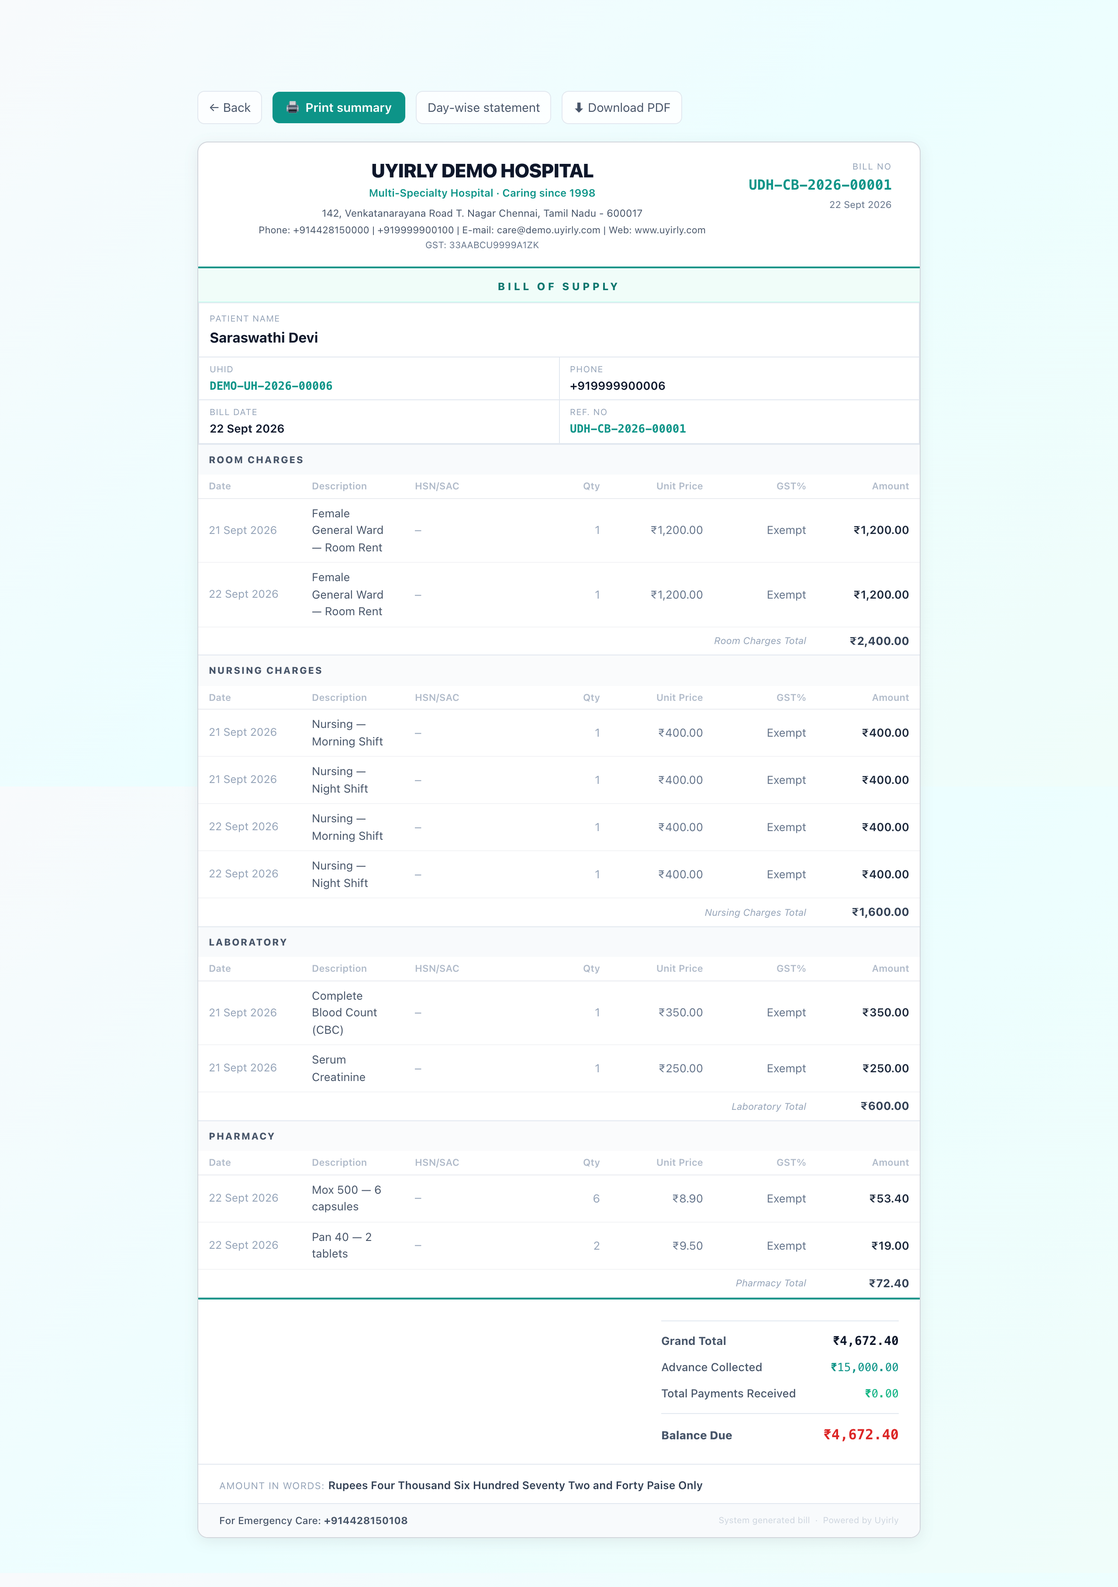
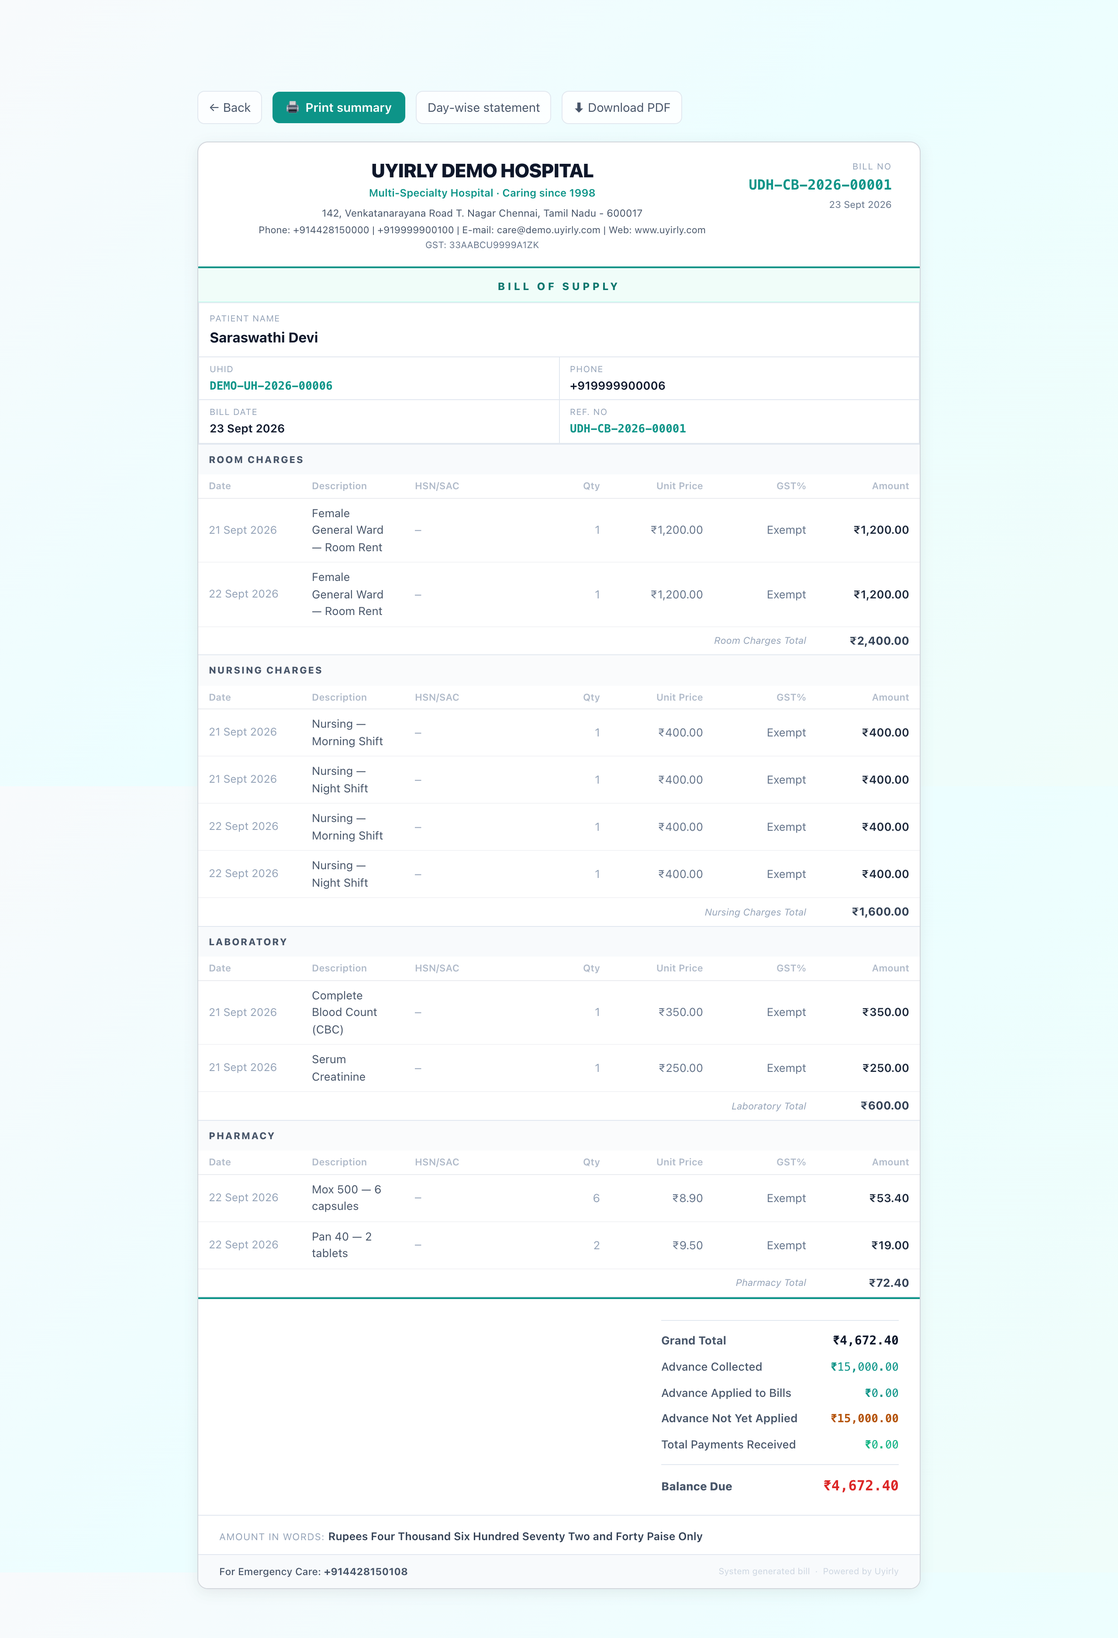
fix(billing): say what happened to the advance
The combined bill printed "Advance Collected ₹15,000" directly above "Balance
Due ₹4,672.40", with nothing in between to explain how both could be true. An
advance is held against the admission and only reduces a balance once a cashier
applies it to a bill — the amount applied was already computed as
advanceAdjusted and then never rendered.

The totals panel now states all three: collected, applied to bills, and not yet
applied. Same accounting, same numbers; the bill just stops contradicting
itself in front of the family paying it.

The IPD billing guide claimed the opposite — that an advance "is applied as
charges accumulate, so the balance shown is always what is genuinely
outstanding" — in a guide that shows the bill disproving it two paragraphs
above. Corrected, in the FAQ too.

Also: the free-trial guide now walks the real signup screen and the real setup
checklist, including why the starting departments matter more than they look
(they choose each doctor's clinical form); and the bill-format guide shows a
printed bill beside its samples.

diff --git a/src/content/guides/hospital-free-trial-setup-guide.tsx b/src/content/guides/hospital-free-trial-setup-guide.tsx
@@ -1,14 +1,20 @@
 import Link from 'next/link'
+import Screenshot from '@/components/guides/Screenshot'
 import WorkflowDiagram from '@/components/guides/diagrams/WorkflowDiagram'
+import CalloutBox from '@/components/guides/diagrams/CalloutBox'
 
 export const faqs = [
   {
     q: 'What do you need ready before starting a hospital software free trial?',
-    a: 'A basic department list, a handful of staff members with their roles (doctor, nurse, receptionist, etc.), and — if you want a realistic test — a short list of sample patients. None of this needs to be your real production data.',
+    a: 'Your hospital name, the departments you run, a handful of staff with their roles, and your basic rates — consultation fees, bed rates, common procedures. A few sample patients make the trial far more useful than clicking around an empty system. None of it needs to be your real production data.',
   },
   {
     q: 'How long does it take to get a hospital live on new software?',
-    a: 'Core setup — hospital profile, departments, staff accounts, basic pricing — can typically be done within a day. Going fully live across every department usually happens gradually over the following days to weeks as staff get comfortable with each module.',
+    a: 'The core — profile, departments, staff logins, rates — is a morning\'s work. Going fully live across every department happens over the following days as each one is switched on and the staff who use it get comfortable.',
+  },
+  {
+    q: 'What is a hospital code and why does it matter?',
+    a: 'A short prefix on every patient ID and bill number, like CITY-UH-2026-00005. It is worth setting before you register anyone, because it appears on every identifier the hospital issues from then on.',
   },
 ]
 
@@ -16,64 +22,128 @@ export default function Guide() {
   return (
     <>
       <p>
-        A free trial is only useful if you actually set it up the way your hospital will really run — not
-        just click through a demo. Here&apos;s what a realistic first day on a new hospital management system
-        looks like.
+        A trial is only worth anything if you set the system up the way your hospital actually runs. Clicking
+        through someone else&apos;s demo data tells you the software has screens. Registering your own
+        patient, prescribing from your own stock and printing your own bill tells you whether it fits.
+      </p>
+      <p>
+        This is what the first morning looks like.
       </p>
 
-      <h2>Day-one setup sequence</h2>
+      <h2>Signing up</h2>
+      <Screenshot
+        src="/guides/signup.png" width={1604} height={2190}
+        alt="Signup form asking for hospital name, a login address ending in uyirly.com, your name, mobile, email and password, then a grid of starting departments to switch on, ending in a create button and a 30-day free trial note"
+        caption="The one screen that decides two things worth thinking about for a minute."
+      />
+      <p>Two fields on this page are worth slowing down for.</p>
+      <ul>
+        <li>
+          <strong>The login address.</strong> This becomes your hospital&apos;s own web address, the one
+          every member of staff types every morning. Short is better than complete — your hospital&apos;s
+          name, not its full legal title.
+        </li>
+        <li>
+          <strong>The starting departments.</strong> These are not labels. The department a doctor belongs to
+          decides which clinical form opens for their consultations: choose Paediatrics and those doctors get
+          growth charts and immunisation schedules; choose Gynaecology and they get the antenatal record and
+          the labour ward. Getting this right at signup saves discovering, a month later, that your
+          paediatrician has been typing weights into a general notes box.
+        </li>
+      </ul>
+      <CalloutBox tone="info" title="You can change both later, but one is cheaper than the other">
+        Departments can be added or removed any time in Settings. The login address is the one that is
+        awkward to change once staff have it in their browsers and your printed material carries it.
+      </CalloutBox>
+
+      <h2>The setup checklist</h2>
+      <p>
+        Once you are in, a <strong>Getting started</strong> page tracks what is still outstanding. It is not
+        a tour — each item checks the database and ticks itself when the thing is actually there, and the
+        list only shows the steps that apply to the modules you turned on.
+      </p>
       <WorkflowDiagram
-        title="Getting a hospital live"
+        title="What the checklist asks for"
         steps={[
-          { label: 'Hospital profile', sublabel: 'Name, departments, wards' },
-          { label: 'Staff accounts', sublabel: 'Roles & permissions' },
-          { label: 'Pricing setup', sublabel: 'Consultation, bed, tariffs' },
-          { label: 'Test patients', sublabel: 'Run a real workflow' },
+          { label: 'Profile & code', sublabel: 'What prints on bills' },
+          { label: 'Your team', sublabel: 'Logins and roles' },
+          { label: 'Catalogues', sublabel: 'Tests, scans, medicines' },
+          { label: 'Rates & wards', sublabel: 'Before the first bill' },
+          { label: 'First patient', sublabel: 'The whole flow, once' },
         ]}
       />
-
-      <h2>What to have ready</h2>
-      <ul>
-        <li>A list of departments and wards, if you run inpatient care.</li>
-        <li>Staff names and their roles — doctor, nurse, receptionist, pharmacist, and so on.</li>
-        <li>Basic pricing — consultation fees, bed daily rates, common procedure charges.</li>
-        <li>A few sample patients to actually run through OPD registration, a consultation and a bill — this is worth far more than clicking through an empty demo.</li>
-      </ul>
-
-      <h2>Test with real staff, not just yourself</h2>
-      <p>
-        The most useful trial isn&apos;t an admin exploring the software alone — it&apos;s a receptionist registering
-        a walk-in, a nurse assigning herself to a patient, a doctor writing a prescription. Our{' '}
-        <Link href="/guides/hospital-management-software-india">buyer&apos;s checklist</Link> covers what else to
-        evaluate during a trial beyond whether setup was easy.
-      </p>
-
-      <h2>Ready to try it?</h2>
-      <p>
-        If you&apos;re moving off paper registers or spreadsheets rather than another software product, our{' '}
-        <Link href="/guides/switching-from-spreadsheets-to-hms">guide to switching from spreadsheets</Link>{' '}
-        covers a phased rollout that avoids disrupting patient care during the transition.
-      </p>
-      <h2>Starting your Uyirly free trial</h2>
-      <p>
-        <Link href="/hospital-management-software">Uyirly</Link> gives a 30-day free trial with no credit card,
-        and most hospitals are seeing patients the same day. When you{' '}
-        <Link href="/signup">sign up</Link>, your hospital gets its own private, secure workspace, and a
-        built-in setup guide walks you through the rest.
-      </p>
       <ol>
-        <li><strong>Sign up</strong> with your hospital name and mobile number &mdash; no card needed.</li>
-        <li><strong>Add your team</strong> so doctors, nurses and front desk can log in.</li>
-        <li><strong>Switch on your departments</strong> and add your services, medicines and billing rates.</li>
-        <li><strong>Register your first patient</strong> and watch the visit, prescription and bill flow together.</li>
-        <li><strong>Go live</strong> &mdash; add more modules whenever you are ready.</li>
+        <li>
+          <strong>Hospital profile</strong> — logo, address and contact details, because these are what
+          appear on every bill, prescription and report you print.
+        </li>
+        <li>
+          <strong>Hospital code</strong> — the short prefix on patient IDs and bill numbers. Set it before
+          you register anyone.
+        </li>
+        <li>
+          <strong>Your team</strong> — adding a person creates their login, and their role decides what they
+          can see. See{' '}
+          <Link href="/guides/hospital-staff-attendance-hr-guide">staff and attendance</Link>.
+        </li>
+        <li>
+          <strong>Doctor OPD hours</strong> — each doctor&apos;s weekly sessions, which the patient app books
+          against.
+        </li>
+        <li>
+          <strong>Lab and radiology catalogues</strong> — the tests and scans you offer, with sample types,
+          prices and reference ranges. Ranges are what make a result flag itself as abnormal later.
+        </li>
+        <li>
+          <strong>Pharmacy stock</strong> — your medicines and opening stock, so you can dispense and bill
+          rather than typing names in free text.
+        </li>
+        <li>
+          <strong>Wards and beds</strong> — if you admit patients.
+        </li>
+        <li>
+          <strong>Billing rates</strong> — consultation and procedure charges, before the first bill rather
+          than after it.
+        </li>
+        <li>
+          <strong>Your first patient</strong> — the point of the whole exercise.
+        </li>
       </ol>
+
+      <h2>The test that matters</h2>
+      <p>
+        Run <strong>one patient end to end</strong>, and have the people who will actually do each step do
+        it. Not the owner clicking through everything alone — a receptionist registering the walk-in, a nurse
+        recording vitals, the doctor prescribing, the pharmacy dispensing, the cashier taking the money.
+      </p>
+      <p>
+        What you are checking is not whether each screen works. It is whether the prescription reached the
+        pharmacy without being retyped, whether the consultation fee and the medicines landed on{' '}
+        <em>one</em> bill, and whether the nurse could record vitals without being able to write the
+        consultation. Those joins are where hospital software is actually decided, and they are invisible
+        until someone walks a patient through them.
+      </p>
+      <p>
+        Our <Link href="/guides/hospital-management-software-india">buyer&apos;s checklist</Link> covers what
+        else to evaluate during a trial.
+      </p>
+
+      <h2>Then go live gradually</h2>
+      <p>
+        Nobody should move a whole hospital in one night. Start with the department that hurts most —
+        usually OPD and the pharmacy — and add the rest as each one settles. If you are coming off paper
+        registers rather than another system, our{' '}
+        <Link href="/guides/switching-from-spreadsheets-to-hms">guide to switching from spreadsheets</Link>{' '}
+        covers a phased rollout that does not disrupt patient care, and the{' '}
+        <Link href="/guides/hospital-digitization-workflow-guide">digitisation workflow guide</Link> sets out
+        the order.
+      </p>
 
       <h2>Getting started</h2>
       <p>
-        You can <Link href="/signup">start your free trial</Link> now, or see how to move off registers in our{' '}
-        <Link href="/guides/switching-from-spreadsheets-to-hms">switching guide</Link>. After the trial it is
-        simple flat monthly pricing &mdash; see <Link href="/pricing">pricing</Link>.
+        <Link href="/signup">Start a 30-day free trial</Link> — no credit card, and your hospital gets its
+        own private workspace from the first minute. After the trial it is flat monthly pricing; see{' '}
+        <Link href="/pricing">pricing</Link>.
       </p>
     </>
   )

diff --git a/src/content/guides/hospital-bill-format-ipd-opd-sample.tsx b/src/content/guides/hospital-bill-format-ipd-opd-sample.tsx
@@ -1,4 +1,5 @@
 import Link from 'next/link'
+import Screenshot from '@/components/guides/Screenshot'
 import BillBreakdown from '@/components/guides/diagrams/BillBreakdown'
 
 export const faqs = [
@@ -74,9 +75,30 @@ export default function Guide() {
         total={8890}
       />
       <p>
-        Any advance paid at admission is applied against this total &mdash; a ₹5,000 advance here would leave
-        ₹3,890 due at discharge. For the full department-by-department breakdown of how an IPD bill accumulates
-        day by day, see our{' '}
+        An advance paid at admission is held against the stay and set against this total when the cashier
+        applies it &mdash; a ₹5,000 advance here leaves ₹3,890 to collect at discharge. A bill should state
+        all three numbers, not just the balance, so the family can see where their deposit went.
+      </p>
+
+      <h2>The same bill, as software produces it</h2>
+      <p>
+        The samples above are the shape. This is a real one, printed from a two-day admission:
+      </p>
+      <Screenshot
+        src="/guides/ipd-combined-bill.png" width={2560} height={3750}
+        alt="A printed hospital bill on letterhead with GST number, patient name and UHID, bill number and date, then sections for room charges, nursing charges, laboratory and pharmacy with each line dated and priced, and a totals panel showing grand total, advance collected, advance applied, advance not yet applied and balance due"
+        caption="Letterhead and GST number, patient and UHID, then every charge dated and grouped by what it is."
+      />
+      <p>
+        Three things in it are worth copying into whatever format you use. Each line is{' '}
+        <strong>dated</strong>, so a question about a particular day has an answer on the page. Each section
+        carries its own <strong>subtotal</strong>, so &ldquo;how much was the pharmacy&rdquo; does not
+        require adding up rows. And the GST column says <strong>Exempt</strong> rather than being left
+        blank &mdash; a blank reads as an omission, and the patient cannot tell the difference between
+        exempt and forgotten.
+      </p>
+      <p>
+        For the full department-by-department breakdown of how an IPD bill accumulates day by day, see our{' '}
         <Link href="/guides/ipd-billing-software-explained">IPD billing explained guide</Link>.
       </p>
 
@@ -95,13 +117,15 @@ export default function Guide() {
         In <Link href="/hospital-management-software">Uyirly</Link> you do not assemble the bill &mdash; it builds
         itself. For OPD, the consultation, tests and pharmacy items land on one receipt. For IPD, bed and
         nursing charges accrue daily and every test, medicine and procedure posts to the running bill, so the
-        itemised bill and a GST-ready invoice are ready the moment the patient is discharged. Advances are
-        already applied, so there is no manual totalling at the counter.
+        itemised bill is ready the moment the patient is discharged, with nothing to total at the counter.
       </p>
       <ul>
-        <li>One itemised bill across consultation, room, lab, pharmacy and procedures.</li>
-        <li>GST-ready invoice, printable for the patient or insurer.</li>
-        <li>IPD bill ready at discharge, with advances applied.</li>
+        <li>One itemised bill across consultation, room, nursing, lab, pharmacy and procedures.</li>
+        <li>Every line dated, every section subtotalled.</li>
+        <li>HSN/SAC and GST per line, with CGST, SGST and IGST summarised &mdash; or marked exempt where healthcare is.</li>
+        <li>Headed <em>Tax Invoice</em> or <em>Bill of Supply</em> according to whether any tax actually applies.</li>
+        <li>Advance collected, advance applied and advance still unapplied stated separately, beside the balance due.</li>
+        <li>Printable, or downloadable as a PDF for the patient or the insurer.</li>
       </ul>
 
       <h2>Getting started</h2>

diff --git a/src/content/guides/ipd-billing-software-explained.tsx b/src/content/guides/ipd-billing-software-explained.tsx
@@ -14,7 +14,7 @@ export const faqs = [
   },
   {
     q: 'What happens to an advance payment in IPD billing?',
-    a: 'An advance paid at admission is held against the admission and automatically applied to reduce the amount due as daily and departmental charges accumulate, rather than being refunded and re-collected.',
+    a: 'It is held against the admission rather than against any one bill, and reduces what is due once a cashier applies it to the bills — usually at discharge. The bill shows all three figures: collected, applied, and still unapplied, so a deposit is never quietly forgotten.',
   },
   {
     q: 'How is nursing charged in an IPD bill?',
@@ -82,7 +82,7 @@ export default function Guide() {
 
       <h2>The combined bill</h2>
       <Screenshot
-        src="/guides/ipd-combined-bill.png" width={2560} height={3632}
+        src="/guides/ipd-combined-bill.png" width={2560} height={3750}
         alt="Combined hospital bill on the hospital's letterhead, showing room charges by date, nursing charges per shift, pharmacy and lab sections with totals, and buttons to print, view a day-wise statement or download a PDF"
         caption="Every charge of the stay on one itemised bill, grouped by what it is and dated."
       />
@@ -100,10 +100,17 @@ export default function Guide() {
 
       <h2>Advances, and why discharge is fast</h2>
       <p>
-        An advance taken at admission is held against the admission, not against a particular bill. As
-        charges accumulate it is applied to them, so the balance shown is always what is genuinely
-        outstanding — and at discharge the patient pays the difference rather than the whole amount with a
-        refund to follow.
+        An advance taken at admission is held against the admission, not against a particular bill. That is
+        the right model — the money is the patient&apos;s deposit, not a payment for anything in particular
+        yet — but it has a consequence worth understanding: <strong>an advance reduces the balance due only
+        once it is applied to a bill</strong>, which a cashier does. It does not silently net itself off as
+        charges accrue.
+      </p>
+      <p>
+        So the bill states all three figures: what was collected, how much of it has been applied, and how
+        much is still sitting unapplied. At discharge the cashier applies the advance and takes the
+        difference — the deposit is never lost track of, and nobody has to remember that a patient paid
+        ₹15,000 three days ago.
       </p>
       <p>
         If an advance exceeds the final bill, the excess is refunded as its own recorded transaction rather

diff --git a/src/app/(dashboard)/billing/combined/_components/CombinedBillView.tsx b/src/app/(dashboard)/billing/combined/_components/CombinedBillView.tsx
@@ -55,6 +55,11 @@ export default function CombinedBillView({ data, profile }: { data: CombinedBill
       )
     : null
   const hasGst = !!gstSummary && gstSummary.taxTotal > 0
+  // Advance money the hospital is holding that has not been set against a bill,
+  // and so is not reflected in the balance due below.
+  const advanceUnapplied = Math.max(
+    0, data.advanceCollected - (data.advanceAdjusted ?? 0) - data.advanceRefunded,
+  )
   const bannerLabel = gstRegistered ? (hasGst ? 'Tax Invoice' : 'Bill of Supply') : 'Summary Bill'
   const gstCols = gstRegistered ? 7 : 5
 
@@ -289,6 +294,11 @@ export default function CombinedBillView({ data, profile }: { data: CombinedBill
                 { label: 'SGST',                    value: gstSummary?.sgst ?? 0, size: '13px', weight: 500, color: '#64748B', border: false, show: hasGst },
                 { label: 'Grand Total',            value: data.grandTotal,       size: '14px', weight: 700, color: '#0F172A', border: true, show: true },
                 { label: 'Advance Collected',       value: data.advanceCollected, size: '13px', weight: 500, color: '#0D9488', border: false, show: data.advanceCollected > 0 },
+                // An advance only reduces the balance once it is adjusted against a
+                // bill. Showing what was collected without showing what has been
+                // applied is how a bill ends up being argued about at the counter.
+                { label: 'Advance Applied to Bills', value: data.advanceAdjusted ?? 0, size: '13px', weight: 500, color: '#0D9488', border: false, show: data.advanceCollected > 0 },
+                { label: 'Advance Not Yet Applied', value: advanceUnapplied, size: '13px', weight: 600, color: '#B45309', border: false, show: advanceUnapplied > 0 },
                 { label: 'Advance Refunded',        value: -data.advanceRefunded, size: '13px', weight: 500, color: '#F59E0B', border: false, show: data.advanceRefunded > 0 },
                 { label: 'Total Payments Received', value: data.totalPaid,        size: '13px', weight: 500, color: '#10B981', border: false, show: true },
                 { label: 'Refunded (credit notes)', value: -(data.refunded ?? 0), size: '13px', weight: 500, color: '#B45309', border: false, show: (data.refunded ?? 0) > 0 },

diff --git a/scripts/guide-shots.ts b/scripts/guide-shots.ts
@@ -232,6 +232,9 @@ export const SHOTS: Shot[] = [
     width: 900, height: 330, wait: 2500,
   },
 
+  // ── Setting the hospital up ────────────────────────────────────────────────
+  { name: 'signup', path: '/signup', host: 'localhost:3000', selector: 'form', wait: 3000, width: 900, height: 900 },
+
   // ── The rest of the hospital ───────────────────────────────────────────────
   { name: 'dashboard',    path: '/dashboard',    selector: 'main', wait: 3000 },
   { name: 'patients',     path: '/patients',     selector: 'main', wait: 2500 },
